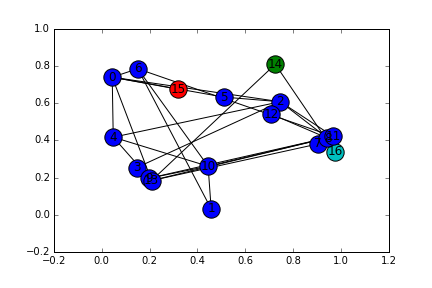
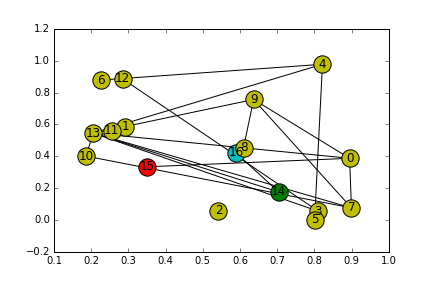
Final Changes

diff --git a/16201018_16200947_16203106.py b/16201018_16200947_16203106.py
@@ -6,10 +6,11 @@ import random
 #minimum number of nodes required for communication
 # 1- CC; 1- convoy and 1 - Boat
 minNumNodes = 3
-
 minTransRange = 300
 minViewRange = 50
 
+# total number of times
+tn = 50
 
 def set_edges(graph):
     
@@ -58,7 +59,7 @@ def set_CC(graph, CCNode):
 
 
     #CC Setup
-    graph.node[CCNode]["lat"]=50.74
+    graph.node[CCNode]["lat"]=47.74
     graph.node[CCNode]["lon"]=-3.36
     graph.node[CCNode]["type"] = "CC"
 
@@ -112,7 +113,7 @@ def initalize(graph):
         graph.node[eachNode]["lat"] = 0.0
         graph.node[eachNode]["lon"] = 0.0
         graph.node[eachNode]["type"] = ""
-        graph.node[eachNode]["state"] = "standBy"
+        graph.node[eachNode]["state"] = "receive"
         graph.node[eachNode]["listeningZone"] = 0
 
     return graph
@@ -158,8 +159,7 @@ def get_graph(numOfNodes=16):
 def gen_rand_coord():
     
     lon=random.uniform(-63.44, -5.93)
-    lat=random.uniform(60.52,42.09)
-    
+    lat=random.uniform(60.52,42.09)    
     return((lat,lon))
     
 def gen_rand_coord_dist(ptlat, ptlon, distrange):
@@ -175,10 +175,8 @@ def gen_rand_coord_dist(ptlat, ptlon, distrange):
         dist=vincenty((lat,lon),(ptlat,ptlon)).kilometers
         
         if(distrange==50 and (40<=dist<=50)):
-            print(lat,lon,dist)
             flag=1
         elif(distrange==300 and (250<=dist<=300)):
-            print(lat,lon,dist)
             flag=1
         else:
             flag=0
@@ -220,12 +218,6 @@ def draw_graph(graph):
 
 def draw_graphER(graph):
     
-#    pos = {}
-#
-#    for eachNode in graph.nodes():
-#        pos[eachNode]=(graph.node[eachNode]["lon"],graph.node[eachNode]["lat"])
-#   
-
     pos = nx.layout.random_layout(graph)     
     
     # get three subsets of nodes: susceptible, infected, removed
@@ -247,10 +239,10 @@ def draw_graphER(graph):
 
     nx.draw_networkx_labels(graph, pos)
     nx.draw_networkx_edges(graph, pos)
-#    nx.draw_networkx_edge_labels(graph, pos)
 
     plt.savefig("UboatSurvivalER.png") 
     plt.close()
+
 
 def get_erdos_renyi_graph(numofNodes=16, edgeProb = 0.2):
     
@@ -260,7 +252,6 @@ def get_erdos_renyi_graph(numofNodes=16, edgeProb = 0.2):
     #Set Land Graph
     landGraph = nx.Graph()    
     landGraph.add_nodes_from(range(numofNodes-minNumNodes, numofNodes))
-    print(landGraph.nodes())
     
     landGraph = initalize(landGraph)
     landGraph = set_CC(landGraph,landGraph.nodes()[0])
@@ -281,32 +272,49 @@ def get_erdos_renyi_graph(numofNodes=16, edgeProb = 0.2):
 
     #Set Uboats in listening zone
     for eachNode in oceanGraph.nodes() :
-        newPoint = ()
-        if(eachNode==0):
-            newPoint = gen_rand_coord_dist(graph.node[landGraph.nodes()[-1]]["lat"],graph.node[landGraph.nodes()[-1]]["lon"],minViewRange)
-        else:
-            newPoint = gen_rand_coord_dist(graph.node[landGraph.nodes()[eachNode-1]]["lat"],graph.node[landGraph.nodes()[eachNode-1]]["lon"],minTransRange)
-        
-        graph.node[eachNode]["lat"] = newPoint[0]
-        graph.node[eachNode]["lon"] = newPoint[1]
         graph.node[eachNode]["type"] = "Uboat"
         graph.node[eachNode]["state"] = "standBy"
         graph.node[eachNode]["listeningZone"] = 1
 
     return graph
 
-def realWorldScenario():
+def realWorldScenario(numOfNodes=16):
     plt.figure(figsize=(15,15))
     
-    graph  = get_graph(16)
+    graph  = get_graph(numOfNodes)
     draw_graph(graph)
     
-    print("Real world Scenario Shortest Path - " ,nx.dijkstra_path(graph,graph.nodes()[-2],graph.nodes()[0]))
-    print("Shortest path Length - ",nx.dijkstra_path_length(graph,graph.nodes()[-2],graph.nodes()[0]))
+    timeTaken = 0
+    startNode = graph.nodes()[-1]
     
-    print(graph.nodes(data=True))
-    print(graph.edges(data=True))      
+    print("Real World Scenario : ")
     
+    try:
+        for te in range(tn):
+            nextNode = nx.dijkstra_path(graph,startNode,graph.nodes()[0])
+            
+            if(graph.node[nextNode[1]]["state"] != "standBy" ):
+                graph.node[startNode]["state"] = "transmit"
+                timeTaken = timeTaken + 1
+                graph.node[startNode]["state"] = "recieve"
+                startNode = nextNode[1]
+            else:
+                print(nextNode[1], " Node is in standBy state")
+                print(startNode, " uboat starts travelling out of zone")
+                break
+                
+            if(startNode == graph.nodes()[0]):
+                print("Total time taken to send message - ",timeTaken," units.")
+                break
+        
+    except Exception as e:
+        print("No connection available to complete the graph - " + e.args[0])
+    
+        
+    print("Nodes count :", len(graph.nodes()))
+    print("Edge Count : ", len(graph.edges()))
+    
+    return
     
 def researchQScenario(numOfNodes=17, probability=0.2):
     
@@ -315,20 +323,29 @@ def researchQScenario(numOfNodes=17, probability=0.2):
     draw_graphER(graph)
     
     #Convoy ship
+    convoyNode = [n for n in graph.nodes() if graph.node[n]["type"] == "convoy"]
+    CCNode = [n for n in graph.nodes() if graph.node[n]["type"] == "CC"]
     
-    print("Shortest Path - " ,nx.dijkstra_path(graph,14,15))
-    print("Shortest path Length - ",nx.dijkstra_path_length(graph,14,15))
+    print("Scalable graph Output:")
+    
+    print("Nodes count :", len(graph.nodes()))
+    print("Edge Count : ", len(graph.edges()))
+    
+    try:
+        print("Shortest Path - " ,nx.dijkstra_path(graph,convoyNode[0],CCNode[0]))
+        print("Shortest path Length - ",nx.dijkstra_path_length(graph,convoyNode[0],CCNode[0]))
+    except Exception as e:
+        print("No connection available to complete the graph - " + e.args[0])
+        
 
-    print(graph.nodes(data=True))
-    print(graph.edges(data=True))      
     
-    
+    return
     
 if __name__ == "__main__":
 
     
     # Real time scenario    
-#    realWorldScenario()
+    realWorldScenario(16)
 
 
 #   Probability Version 
